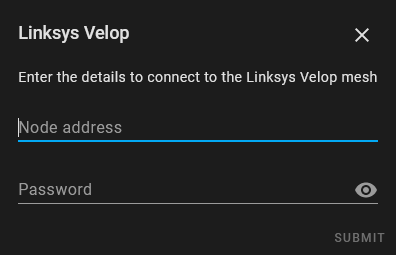
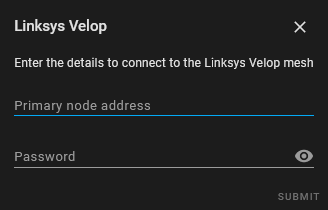
Enforce the primary node being used for setup
Config flow text changed accordingly
README and image updated accordingly
Bump version for pyvelop

diff --git a/custom_components/linksys_velop/config_flow.py b/custom_components/linksys_velop/config_flow.py
@@ -30,7 +30,11 @@ from .const import (
     STEP_USER,
 )
 from pyvelop.device import Device
-from pyvelop.exceptions import MeshInvalidCredentials, MeshBadResponse
+from pyvelop.exceptions import (
+    MeshInvalidCredentials,
+    MeshNodeNotPrimary,
+    MeshBadResponse
+)
 from pyvelop.mesh import Mesh
 
 _LOGGER = logging.getLogger(__name__)
@@ -136,18 +140,17 @@ class LinksysVelopConfigFlow(config_entries.ConfigFlow, domain=DOMAIN):
         :return: None
         """
 
-        mesh = Mesh(**user_input)
-        try:
-            await mesh.async_test_credentials()
-        except MeshInvalidCredentials:
-            self._errors["base"] = "login_error"
-        except MeshBadResponse:
-            self._errors["base"] = "login_bad_response"
-        else:
-            self._mesh = mesh
-
-        if self._errors and self._mesh:
-            await self._mesh.close()
+        async with Mesh(**user_input) as mesh:
+            try:
+                await mesh.async_gather_details()
+            except MeshInvalidCredentials:
+                self._errors["base"] = "login_error"
+            except MeshBadResponse:
+                self._errors["base"] = "login_bad_response"
+            except MeshNodeNotPrimary:
+                self._errors["base"] = "node_not_primary"
+            else:
+                self._mesh = mesh
 
         self.hass.async_create_task(self.hass.config_entries.flow.async_configure(flow_id=self.flow_id))
 

diff --git a/README.md b/README.md
@@ -76,7 +76,7 @@ When setting up the integration you will be asked for the following information.
 
 ![Initial Setup Screen](https://github.com/uvjim/linksys_velop/raw/main/images/setup_user.png)
 
-- `Node address`: can be any node in the mesh
+- `Primary node address`: must be the node classed as the primary node
 - `Password`: the password you would use to log in to either the app or the 
   web UI
 
